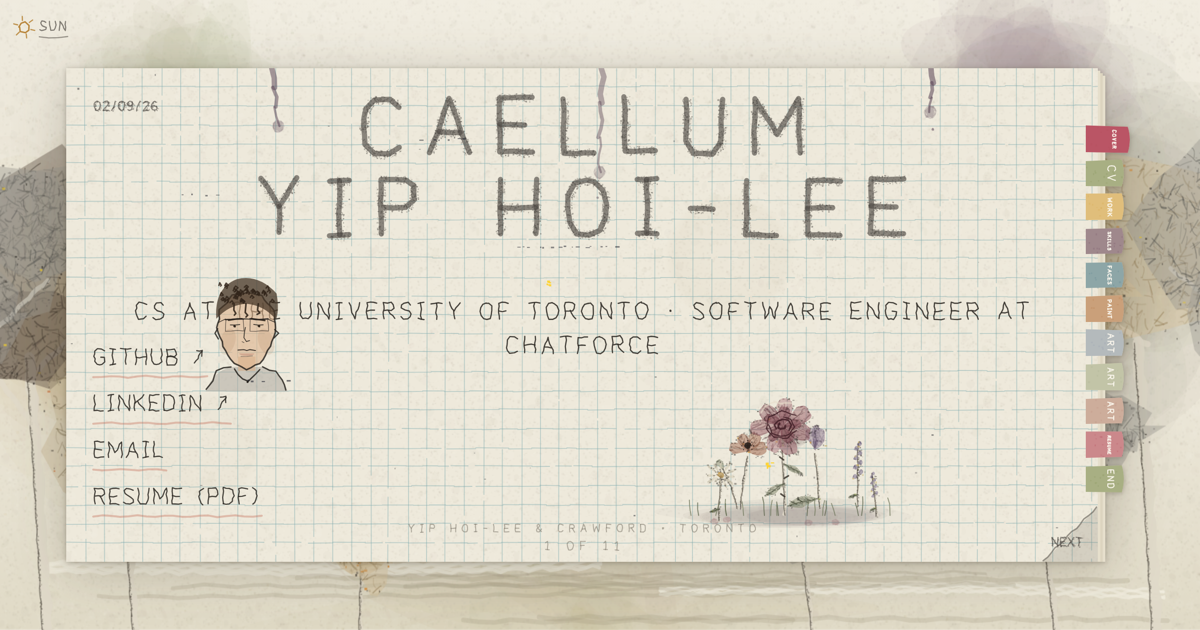
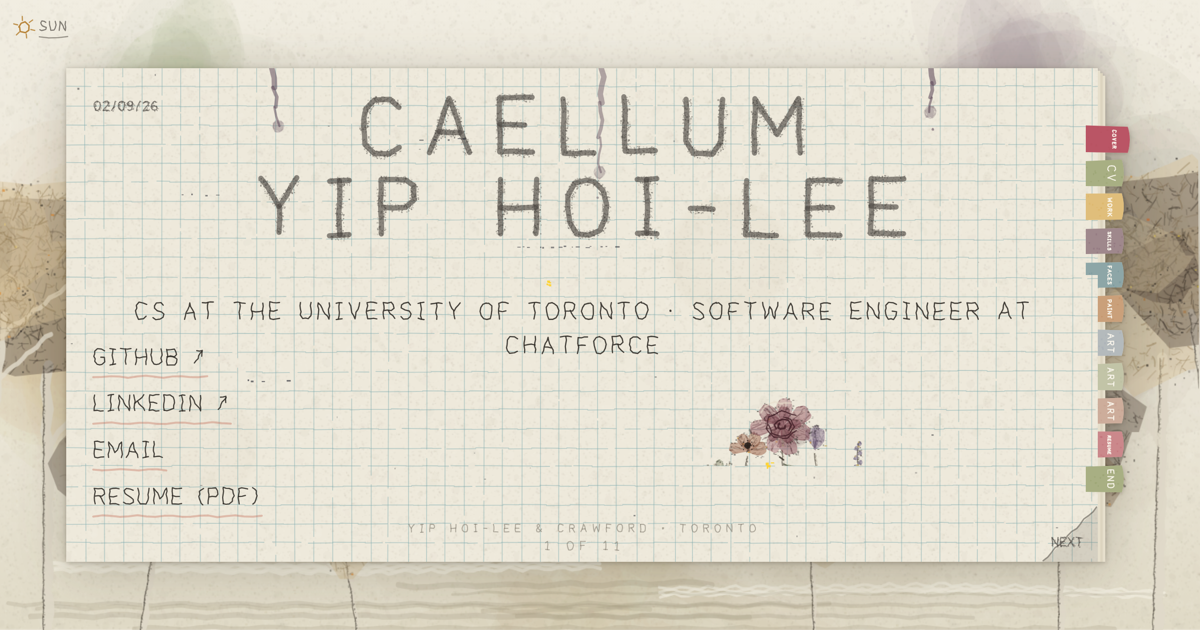
Retire the portrait, give planted flowers their headroom
The cover loses the self-portrait, and the garden's swaying sheet now
starts high enough that flowers planted near the top of the ground are
never clipped at the bloom. The og-image is recaptured to match.

Claude-Session: https://claude.ai/code/session_0177PqzsewJzixqA2CZbVnmg

diff --git a/sketch/plates.js b/sketch/plates.js
@@ -50,7 +50,7 @@
     var KINDS = ['rose', 'poppy', 'tulip', 'daisy', 'lavender']
 
     function gardenBox(width, height) {
-      return { y: Math.round(height * 0.52), bottom: Math.round(height - 96), pivot: height * 0.93 }
+      return { y: Math.round(height * 0.42), bottom: Math.round(height - 96), pivot: height * 0.93 }
     }
 
     function drawGarden(context, width, height) {
@@ -145,9 +145,6 @@
           api.link(pad - 6, linkY - linkSize * 1.4, wordWidth + 16, linkSize * 2.6, link.href, link.title)
           linkY += 30 * s
         })
-
-        /* the author, drawn in the house style */
-        SKETCH.faces.portrait(context, width * 0.175, height * 0.53, height * 0.16, 77)
 
         SKETCH.print(context, data.stationery, width / 2, height - 30, { align: 'center', seed: 150 })
         SKETCH.artifacts(context, width, height, 152)
